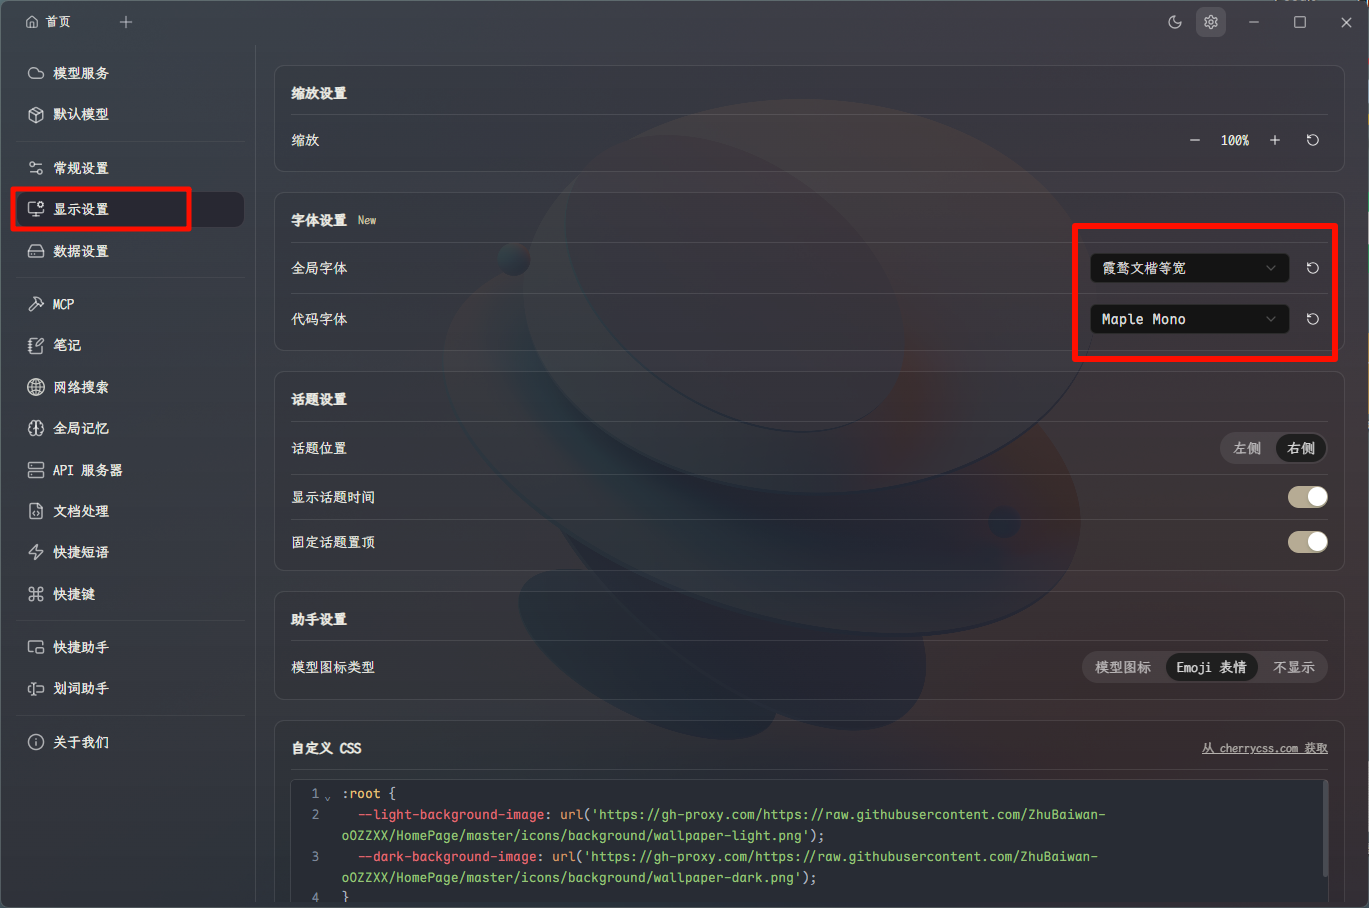
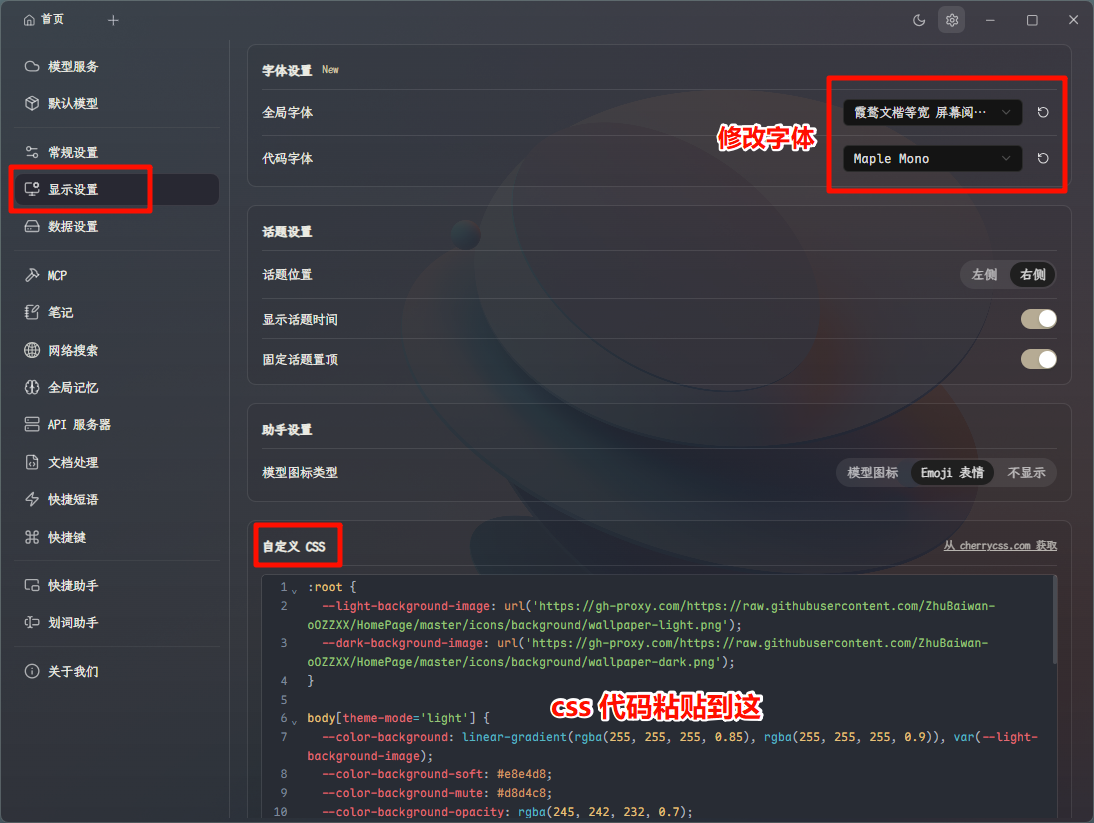
修改文章

diff --git a/note/dev/Cherry Studio 美化.md b/note/dev/Cherry Studio 美化.md
@@ -1,16 +1,16 @@
 # Cherry Studio 美化
 
-字体选用的 **霞鹜文楷等宽** 与 **Maple Mono**，先看看效果:
+字体选用的 **霞鹜文楷屏幕阅读版等宽** 与 **Maple Mono**，先看看效果:
 
 ![cherry-css-light](../../assets/cherry-css-light.png)
 ![cherry-css-dark](../../assets/cherry-css-dark.png)
 
 
 ## 下载字体
-- 霞鹜文楷：https://github.com/lxgw/LxgwWenKai/releases
+- 霞鹜文楷屏幕阅读版：https://github.com/lxgw/LxgwWenKai-Screen/releases
 - Maple Mono：https://font.subf.dev/zh-cn/download
 
-下载字体文件 (.zip)，解压后将字体文件 (.ttf) 复制到系统字体目录 (Windows: `C:\Windows\Fonts`)。
+下载字体文件 (.zip)，解压后将字体文件 (.ttf) 复制到系统字体目录 (Windows 为 `C:\Windows\Fonts`)。
 
 ![](../../assets/Windows%20安装字体.png)
 
@@ -55,8 +55,6 @@ body[theme-mode='dark'] {
 }
 
 
-
-
 /* 代码块透明背景 */
 div.shiki,
 .markdown pre {
@@ -68,6 +66,7 @@ div[class^="CodeHeader-"] {
 }
 
 
+/* https://github.com/BoningtonChen/CherryStudio_themes/blob/master/themes/just-flowing-border.css */
 
 /* 优雅流彩动画 */
 @keyframes elegantFlow {
@@ -134,21 +133,20 @@ div[class^="CodeHeader-"] {
 
 
 
-
 /* Markdown 内容样式 */
 /* Light模式样式 */
-body[theme-mode="light"] .markdown { color: #5C6A72; }
-body[theme-mode="light"] .markdown h1 { font-size: 2em; color: #FF5252; border: none; padding-bottom: 0; font-weight: 600; }
-body[theme-mode="light"] .markdown h2 { font-size: 1.75em; color: #F57D26; border: none; padding-bottom: 0; font-weight: 600; }
-body[theme-mode="light"] .markdown h3 { font-size: 1.5em; color: #DFA000; border: none; padding-bottom: 0; font-weight: 600; }
-body[theme-mode="light"] .markdown h4 { font-size: 1.25em; color: #4CAF50; border: none; padding-bottom: 0; font-weight: 600; }
-body[theme-mode="light"] .markdown h5 { font-size: 1.1em; color: #03A9F4; border: none; padding-bottom: 0; font-weight: 600; }
-body[theme-mode="light"] .markdown h6 { font-size: 1em; color: #673AB7; border: none; padding-bottom: 0; font-weight: 600; }
+body[theme-mode="light"] .markdown { color: #4A5568; }
+body[theme-mode="light"] .markdown h1 { font-size: 2em; color: #D34242; border: none; padding-bottom: 0; font-weight: 600; }
+body[theme-mode="light"] .markdown h2 { font-size: 1.75em; color: #D9775D; border: none; padding-bottom: 0; font-weight: 600; }
+body[theme-mode="light"] .markdown h3 { font-size: 1.5em; color: #C6894D; border: none; padding-bottom: 0; font-weight: 600; }
+body[theme-mode="light"] .markdown h4 { font-size: 1.25em; color: #5A8F5A; border: none; padding-bottom: 0; font-weight: 600; }
+body[theme-mode="light"] .markdown h5 { font-size: 1.1em; color: #5C8CBF; border: none; padding-bottom: 0; font-weight: 600; }
+body[theme-mode="light"] .markdown h6 { font-size: 1em; color: #7A6BA8; border: none; padding-bottom: 0; font-weight: 600; }
 body[theme-mode="light"] .markdown strong { color: #B55A5A; font-weight: bold; }
 body[theme-mode="light"] .markdown em { color: #829181; font-style: italic; }
 body[theme-mode="light"] .markdown hr { border: none; height: 1px; background: linear-gradient(90deg, transparent, #E5FFFF, transparent); }
 body[theme-mode="light"] .markdown a { color: #3795C5; text-decoration: none; border-bottom: 1px solid rgba(141,161,1,0.2); }
-body[theme-mode="light"] .markdown blockquote { padding: 1rem 1.5rem; margin: 1.5rem 0; background-color: #efebd4; border-left: 4px solid #bec5b2; border-radius: 8px; }
+body[theme-mode="light"] .markdown blockquote { margin: 0; background-color: rgba(239, 235, 212, 0.4); border-left: 4px solid #bec5b2; border-radius: 8px; }
 
 /* Dark模式样式 */
 body[theme-mode="dark"] .markdown { color: #d3c6aa; }
@@ -162,7 +160,7 @@ body[theme-mode="dark"] .markdown strong { color: #B55A5A; font-weight: bold; }
 body[theme-mode="dark"] .markdown em { color: #9da9a0; font-style: italic; }
 body[theme-mode="dark"] .markdown hr { border: none; height: 1px; background: linear-gradient(90deg, transparent, #E5FFFF, transparent); }
 body[theme-mode="dark"] .markdown a { color: #7fbbb3; text-decoration: none; border-bottom: 1px solid rgba(167,192,128,0.2); }
-body[theme-mode="dark"] .markdown blockquote { padding: 1rem 1.5rem; margin: 1.5rem 0; background-color: #283035; border-left: 4px solid #4f585e; border-radius: 8px; }
+body[theme-mode="dark"] .markdown blockquote { margin: 0; background-color: rgba(40, 48, 53, 0.4); border-left: 4px solid #4f585e; border-radius: 8px; }
 
 /* 脚注样式 */
 .footnotes { margin: 1em 0; padding: 8px 12px; border-radius: 8px; background-color: transparent; }

diff --git a/index.md b/index.md
@@ -7,14 +7,14 @@
 ### note
 
 #### API 代理
+  - [小马算力 API 代理](#note/API%20代理/小马算力%20API%20代理.md) 2025-12-09
   - [百灵大模型 API 代理](#note/API%20代理/美团LongCat%20API代理.md) 2025-11-25
-  - [小马算力 API 代理](#note/API%20代理/小马算力%20API%20代理.md) 2025-11-20
   - [百灵大模型 API 代理](#note/API%20代理/百灵大模型%20API%20代理.md) 2025-11-11
   - [Anannas API 代理](#note/API%20代理/Anannas%20API%20代理.md) 2025-11-10
   - [心流 iflow API 代理](#note/API%20代理/心流%20iflow%20API%20代理.md) 2025-10-29
 
 #### dev
-  - [Cherry Studio 美化](#note/dev/Cherry%20Studio%20美化.md) 2025-12-06
+  - [Cherry Studio 美化](#note/dev/Cherry%20Studio%20美化.md) 2025-12-09
   - [git 下载与配置.md](#note/dev/git%20下载与配置.md) 2025-11-28
   - [霍格沃茨魔法学校](#note/dev/霍格沃茨魔法学校.md) 2025-11-15
   - [批量删除 kimi 网页对话](#note/dev/批量删除%20kimi%20网页对话.md) 2025-11-11

diff --git a/note/API 代理/小马算力 API 代理.md b/note/API 代理/小马算力 API 代理.md
@@ -1,13 +1,6 @@
 # 小马算力 API 代理
 
-新发现了一个 AI 大模型聚合平台，叫做：小马算力，现在注册双方各得价值 50 元的算力金，我的邀请码：https://www.tokenpony.cn/7fpBoqFV
-
-活动时间：2025 年 11 月 12 日 - 11 月 30 日
-- 注册账号 - 获得 20 元算力金
-- 每日签到 - 每日可领 10 元算力金
-- 邀请 1 位新用户 - 邀请人和被邀请人均获得 50 元算力金
-
-活动页详情：https://www.tokenpony.cn/#/1112
+新发现了一个 AI 大模型聚合平台，叫做：小马算力，现在注册双方各得价值 50 元的算力金，我的邀请码：https://www.tokenpony.cn/7fpBoqFV （疑似不会再有50元赠金）
 
 ## 透明代理
 
